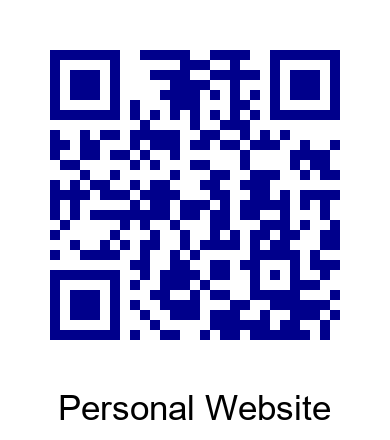
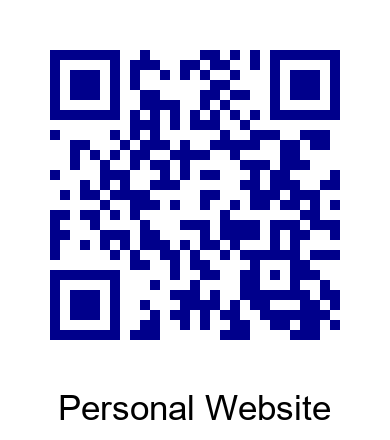
update

Changed region(s): [[0.1231, 0.0886, 0.8923, 0.7977]]

diff --git a/resume.py b/resume.py
@@ -1,6 +1,6 @@
 import segno
 from PIL import Image, ImageDraw, ImageFont
-qrcode = segno.make_qr("https://sadeekfarhan21.github.io/assets/FarhanSadeekResume.pdf").save('resume.png', scale = 10, border = 5, dark = 'black')
+qrcode = segno.make_qr("https://drive.google.com/file/d/17qReiGPle_6aNEzgGy_SxiTu-sbEk5eP/view").save('resume.png', scale = 10, border = 5, dark = 'black')
 
 
 # Open the generated QR code image
